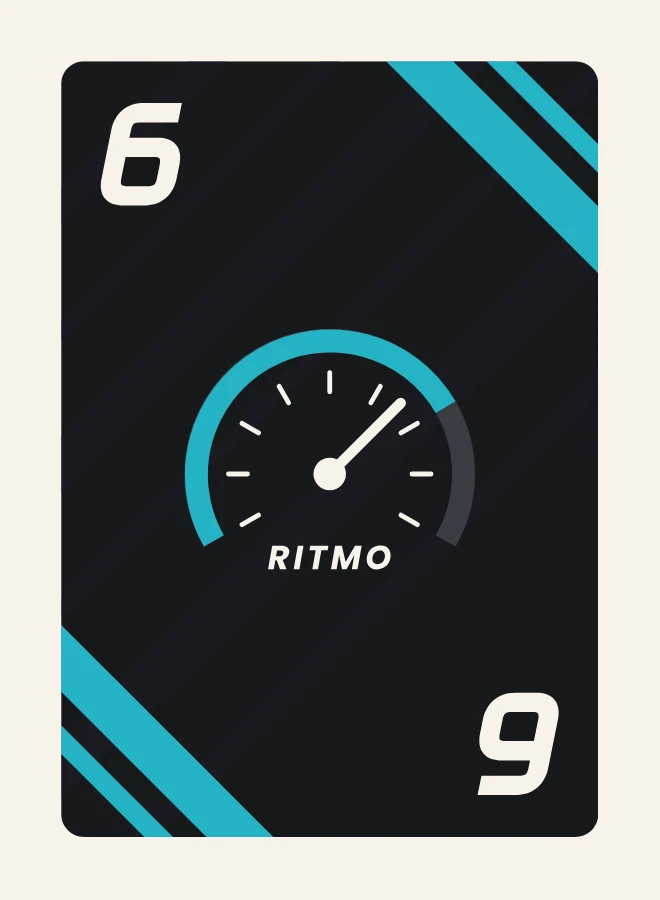
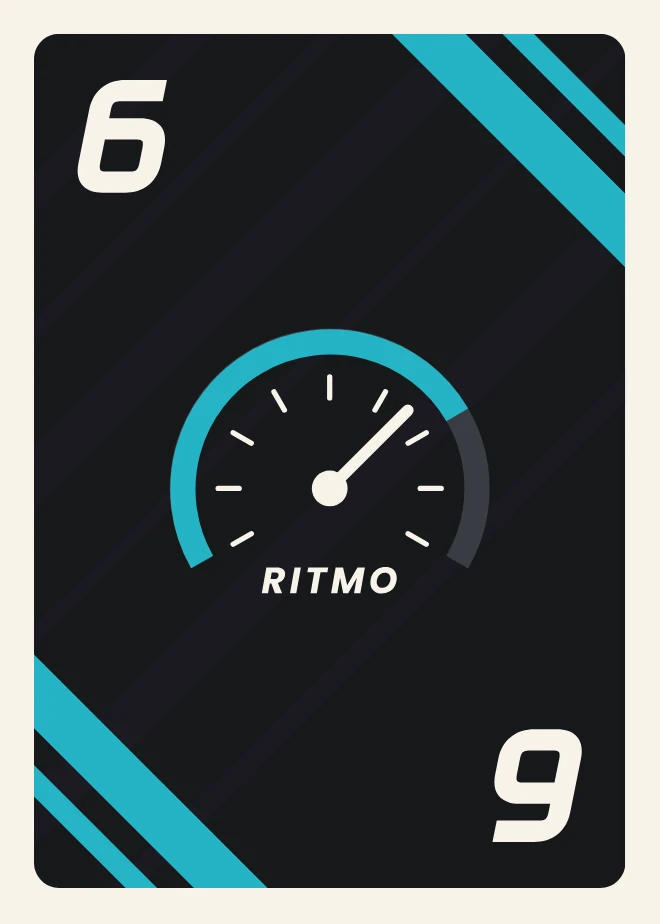
PINTO: halve the cream border on card images
Claude-Session: https://claude.ai/code/session_01NnqHpPTsf52NrHQii241Ji

diff --git a/juegos/pinto/index.html b/juegos/pinto/index.html
@@ -22,7 +22,7 @@
   <link rel="stylesheet" href="https://fonts.googleapis.com/css2?family=Istok+Web:wght@400;700&amp;family=Poppins:ital,wght@0,500;0,600;1,700;1,800&amp;display=swap">
 
   <link rel="stylesheet" href="../../css/styles.css?v=2">
-  <link rel="stylesheet" href="../../css/pinto.css?v=10">
+  <link rel="stylesheet" href="../../css/pinto.css?v=11">
   <script>document.documentElement.classList.replace('no-js', 'js');</script>
 </head>
 <body class="pinto">
@@ -134,14 +134,14 @@
         <p class="p-eyebrow">32 cartas · del 1 al 8</p>
         <h2 class="p-h2" id="ritmo-title">Cartas de ritmo</h2>
         <ul class="p-fan" aria-label="Cartas de ritmo del 1 al 8">
-          <li><img src="img/cartas/ritmo-1.webp?v=2" width="660" height="900" alt="Carta de ritmo 1" loading="lazy"></li>
-          <li><img src="img/cartas/ritmo-2.webp?v=2" width="660" height="900" alt="Carta de ritmo 2" loading="lazy"></li>
-          <li><img src="img/cartas/ritmo-3.webp?v=2" width="660" height="900" alt="Carta de ritmo 3" loading="lazy"></li>
-          <li><img src="img/cartas/ritmo-4.webp?v=2" width="660" height="900" alt="Carta de ritmo 4" loading="lazy"></li>
-          <li><img src="img/cartas/ritmo-5.webp?v=2" width="660" height="900" alt="Carta de ritmo 5" loading="lazy"></li>
-          <li><img src="img/cartas/ritmo-6.webp?v=2" width="660" height="900" alt="Carta de ritmo 6" loading="lazy"></li>
-          <li><img src="img/cartas/ritmo-7.webp?v=2" width="660" height="900" alt="Carta de ritmo 7" loading="lazy"></li>
-          <li><img src="img/cartas/ritmo-8.webp?v=2" width="660" height="900" alt="Carta de ritmo 8" loading="lazy"></li>
+          <li><img src="img/cartas/ritmo-1.webp?v=3" width="660" height="924" alt="Carta de ritmo 1" loading="lazy"></li>
+          <li><img src="img/cartas/ritmo-2.webp?v=3" width="660" height="924" alt="Carta de ritmo 2" loading="lazy"></li>
+          <li><img src="img/cartas/ritmo-3.webp?v=3" width="660" height="924" alt="Carta de ritmo 3" loading="lazy"></li>
+          <li><img src="img/cartas/ritmo-4.webp?v=3" width="660" height="924" alt="Carta de ritmo 4" loading="lazy"></li>
+          <li><img src="img/cartas/ritmo-5.webp?v=3" width="660" height="924" alt="Carta de ritmo 5" loading="lazy"></li>
+          <li><img src="img/cartas/ritmo-6.webp?v=3" width="660" height="924" alt="Carta de ritmo 6" loading="lazy"></li>
+          <li><img src="img/cartas/ritmo-7.webp?v=3" width="660" height="924" alt="Carta de ritmo 7" loading="lazy"></li>
+          <li><img src="img/cartas/ritmo-8.webp?v=3" width="660" height="924" alt="Carta de ritmo 8" loading="lazy"></li>
         </ul>
       </section>
 
@@ -151,27 +151,27 @@
         <h2 class="p-h2" id="especiales-title">Cartas especiales</h2>
         <ul class="p-specials p-specials--compact">
           <li class="p-card" style="--c: #e5463b">
-            <img src="img/cartas/bandera-roja.webp?v=2" width="660" height="900" alt="" loading="lazy">
+            <img src="img/cartas/bandera-roja.webp?v=3" width="660" height="924" alt="" loading="lazy">
             <h3>Bandera Roja</h3>
           </li>
           <li class="p-card" style="--c: #f2bd23">
-            <img src="img/cartas/bandera-amarilla.webp?v=2" width="660" height="900" alt="" loading="lazy">
+            <img src="img/cartas/bandera-amarilla.webp?v=3" width="660" height="924" alt="" loading="lazy">
             <h3>Bandera Amarilla</h3>
           </li>
           <li class="p-card" style="--c: #22b3c4">
-            <img src="img/cartas/rebufo.webp?v=2" width="660" height="900" alt="" loading="lazy">
+            <img src="img/cartas/rebufo.webp?v=3" width="660" height="924" alt="" loading="lazy">
             <h3>Rebufo</h3>
           </li>
           <li class="p-card" style="--c: #e8e2d6">
-            <img src="img/cartas/bandera-a-cuadros.webp?v=2" width="660" height="900" alt="" loading="lazy">
+            <img src="img/cartas/bandera-a-cuadros.webp?v=3" width="660" height="924" alt="" loading="lazy">
             <h3>Bandera a Cuadros</h3>
           </li>
           <li class="p-card" style="--c: #9b4fd8">
-            <img src="img/cartas/vuelta-rapida.webp?v=2" width="660" height="900" alt="" loading="lazy">
+            <img src="img/cartas/vuelta-rapida.webp?v=3" width="660" height="924" alt="" loading="lazy">
             <h3>Vuelta Rápida</h3>
           </li>
           <li class="p-card" style="--c: #2f86de">
-            <img src="img/cartas/bandera-azul.webp?v=2" width="660" height="900" alt="" loading="lazy">
+            <img src="img/cartas/bandera-azul.webp?v=3" width="660" height="924" alt="" loading="lazy">
             <h3>Bandera Azul</h3>
           </li>
         </ul>
@@ -203,7 +203,7 @@
 
       <!-- Cierre -->
       <section class="p-cta" aria-labelledby="cta-title">
-        <img class="p-cta__card" src="img/cartas/reverso.webp?v=2" width="660" height="900" alt="" loading="lazy">
+        <img class="p-cta__card" src="img/cartas/reverso.webp?v=3" width="660" height="924" alt="" loading="lazy">
         <div class="p-cta__copy">
           <h2 class="p-h2" id="cta-title">Muy pronto en la parrilla de salida</h2>
           <p>PINTO está calentando motores. Síguenos para enterarte primero de dónde conseguirlo.</p>

diff --git a/juegos/pinto/instrucciones/index.html b/juegos/pinto/instrucciones/index.html
@@ -24,7 +24,7 @@
   <link rel="stylesheet" href="https://fonts.googleapis.com/css2?family=Istok+Web:wght@400;700&amp;family=Poppins:ital,wght@0,500;0,600;1,700;1,800&amp;display=swap">
 
   <link rel="stylesheet" href="../../../css/styles.css?v=2">
-  <link rel="stylesheet" href="../../../css/pinto.css?v=10">
+  <link rel="stylesheet" href="../../../css/pinto.css?v=11">
 </head>
 <body class="pinto">
 
@@ -145,27 +145,27 @@
         <h2 class="p-h2" id="especiales-title">Cartas especiales</h2>
         <ul class="p-specials">
           <li class="p-card" style="--c: #e5463b">
-            <img src="../img/cartas/bandera-roja.webp?v=2" width="660" height="900" alt="" loading="lazy">
+            <img src="../img/cartas/bandera-roja.webp?v=3" width="660" height="924" alt="" loading="lazy">
             <div><h3>Bandera Roja</h3><p>Cierra la pista sin descartar la pila. El siguiente jugador tiene vía libre. Esta carta puede jugarse siempre.</p></div>
           </li>
           <li class="p-card" style="--c: #f2bd23">
-            <img src="../img/cartas/bandera-amarilla.webp?v=2" width="660" height="900" alt="" loading="lazy">
+            <img src="../img/cartas/bandera-amarilla.webp?v=3" width="660" height="924" alt="" loading="lazy">
             <div><h3>Bandera Amarilla</h3><p>Obliga al siguiente jugador a jugar ritmos bajos. Esta carta <strong>NO</strong> puede jugarse sobre ritmos altos, Vuelta Rápida o Rebufo.</p></div>
           </li>
           <li class="p-card" style="--c: #22b3c4">
-            <img src="../img/cartas/rebufo.webp?v=2" width="660" height="900" alt="" loading="lazy">
+            <img src="../img/cartas/rebufo.webp?v=3" width="660" height="924" alt="" loading="lazy">
             <div><h3>Rebufo</h3><p>Permite colocar hasta dos valores consecutivos de ritmos altos. Puedes jugarla sobre ritmos bajos u otro Rebufo.</p></div>
           </li>
           <li class="p-card" style="--c: #e8e2d6">
-            <img src="../img/cartas/bandera-a-cuadros.webp?v=2" width="660" height="900" alt="" loading="lazy">
+            <img src="../img/cartas/bandera-a-cuadros.webp?v=3" width="660" height="924" alt="" loading="lazy">
             <div><h3>Bandera a Cuadros</h3><p>Termina la etapa y descarta la pila. El siguiente jugador tiene vía libre. Esta carta puede jugarse siempre.</p></div>
           </li>
           <li class="p-card" style="--c: #9b4fd8">
-            <img src="../img/cartas/vuelta-rapida.webp?v=2" width="660" height="900" alt="" loading="lazy">
+            <img src="../img/cartas/vuelta-rapida.webp?v=3" width="660" height="924" alt="" loading="lazy">
             <div><h3>Vuelta Rápida</h3><p>Carta de ritmo más alto del juego. Esta carta <strong>NO</strong> puede jugarse justo después de una Bandera Amarilla.</p></div>
           </li>
           <li class="p-card" style="--c: #2f86de">
-            <img src="../img/cartas/bandera-azul.webp?v=2" width="660" height="900" alt="" loading="lazy">
+            <img src="../img/cartas/bandera-azul.webp?v=3" width="660" height="924" alt="" loading="lazy">
             <div><h3>Bandera Azul</h3><p>Salta el turno del siguiente jugador. Esta carta <strong>NO</strong> puede jugarse sobre una Bandera Amarilla, Rebufo o Vuelta Rápida.</p></div>
           </li>
         </ul>
@@ -220,7 +220,7 @@
 
       <!-- Closing -->
       <section class="p-cta" aria-labelledby="cierre-title">
-        <img class="p-cta__card" src="../img/cartas/reverso.webp?v=2" width="660" height="900" alt="" loading="lazy">
+        <img class="p-cta__card" src="../img/cartas/reverso.webp?v=3" width="660" height="924" alt="" loading="lazy">
         <div class="p-cta__copy">
           <h2 class="p-h2" id="cierre-title">¿Una jugada en duda?</h2>
           <p>El reglamento oficial tiene todos los casos especiales, las preguntas frecuentes y la puntuación completa del campeonato.</p>

diff --git a/index.html b/index.html
@@ -29,7 +29,7 @@
   <link rel="stylesheet" href="https://fonts.googleapis.com/css2?family=Istok+Web:wght@400;700&amp;display=swap">
 
   <link rel="stylesheet" href="css/styles.css?v=2">
-  <link rel="stylesheet" href="css/home.css?v=8">
+  <link rel="stylesheet" href="css/home.css?v=9">
 
   <!-- Sender: script universal de la cuenta (carga el formulario de suscripción). -->
   <script>
@@ -148,8 +148,8 @@
 
         <a class="h-game" href="juegos/pinto/" aria-labelledby="pinto-name">
           <div class="h-game__art">
-            <img class="h-game__card h-game__card--a" src="juegos/pinto/img/cartas/ritmo-8.webp?v=2" width="660" height="900" alt="" loading="lazy">
-            <img class="h-game__card h-game__card--b" src="juegos/pinto/img/cartas/bandera-a-cuadros.webp?v=2" width="660" height="900" alt="" loading="lazy">
+            <img class="h-game__card h-game__card--a" src="juegos/pinto/img/cartas/ritmo-8.webp?v=3" width="660" height="924" alt="" loading="lazy">
+            <img class="h-game__card h-game__card--b" src="juegos/pinto/img/cartas/bandera-a-cuadros.webp?v=3" width="660" height="924" alt="" loading="lazy">
             <img class="h-game__box" src="assets/pinto-caja.webp" width="560" height="798" alt="Caja del juego PINTO" loading="lazy">
           </div>
           <div class="h-game__copy">
@@ -227,7 +227,7 @@
             <h2 class="h-h2" id="join-title">Entérate <span class="accent">primero.</span></h2>
             <p class="h-join__lead">Suscríbete y recibe novedades, adelantos y contenido exclusivo de Kori Labs directo en tu correo.</p>
             <div class="h-join__gift">
-              <img src="juegos/pinto/img/cartas/reverso.webp?v=2" width="660" height="900" alt="" loading="lazy">
+              <img src="juegos/pinto/img/cartas/reverso.webp?v=3" width="660" height="924" alt="" loading="lazy">
               <p><strong>De regalo:</strong> una plantilla exclusiva para jugar PINTO en modo Temporada, lista para imprimir cuando PINTO llegue a tu mesa.</p>
             </div>
           </div>

diff --git a/css/home.css b/css/home.css
@@ -234,7 +234,7 @@
   height: auto;
   top: 8%;
   /* New card art (825×1125) has a cream border with square corners; round the outer edge */
-  border-radius: 9%/6.6%;
+  border-radius: 7.5%/5.35%;
   box-shadow: 0 0.8rem 1.6rem rgb(0 0 0 / 0.5);
   transition: transform 0.4s ease;
 }
@@ -615,7 +615,7 @@ html { scroll-behavior: smooth; }
   flex: none;
   width: 2.6rem;
   height: auto;
-  border-radius: 9%/6.6%;
+  border-radius: 7.5%/5.35%;
   transform: rotate(-8deg);
   box-shadow: 0 0.4rem 0.8rem rgb(0 0 0 / 0.35);
 }

diff --git a/privacidad/index.html b/privacidad/index.html
@@ -17,7 +17,7 @@
   <link rel="stylesheet" href="https://fonts.googleapis.com/css2?family=Istok+Web:wght@400;700&amp;display=swap">
 
   <link rel="stylesheet" href="../css/styles.css?v=2">
-  <link rel="stylesheet" href="../css/home.css?v=8">
+  <link rel="stylesheet" href="../css/home.css?v=9">
   <link rel="stylesheet" href="../css/legal.css?v=1">
 </head>
 <body class="home">

diff --git a/css/pinto.css b/css/pinto.css
@@ -433,7 +433,7 @@
   width: 100%;
   height: auto;
   /* New card art (825×1125) has a cream border with square corners; round the outer edge */
-  border-radius: 9%/6.6%;
+  border-radius: 7.5%/5.35%;
   box-shadow: 0 0.9rem 1.8rem rgb(0 0 0 / 0.45);
 }
 

diff --git a/CLAUDE.md b/CLAUDE.md
@@ -70,7 +70,7 @@ comments just to translate them — only translate what you are already touching
 │       ├── box3d.js         Auto-rotating, draggable CSS-3D box with per-face shading (no deps, respects reduced motion)
 │       ├── instrucciones/index.html  Rules summary + "Ver reglamento" button (opens the PDF in a new tab, no `download` attr so phones open it). TARGET OF THE PRINTED QR — never move
 │       ├── reglamento.pdf   Official rules PDF (v1.3, source of truth). Linked from instrucciones/ only
-│       └── img/             caja-*.webp (6 box faces), cartas/*.webp (card art, 660×900, cream border baked in;
+│       └── img/             caja-*.webp (6 box faces), cartas/*.webp (card art, 660×924, thin cream border baked in;
 │                            special cards have their description paragraph removed),
 │                            logo-pinto.webp, og-pinto.jpg (share preview)
 ├── pinto/reglas/index.html  Meta-refresh → /juegos/pinto/instrucciones/ (short alias; keep working)
@@ -137,8 +137,8 @@ the size/page count shown next to the download button.
 
 - **Cache busting:** CSS/JS/image links carry `?v=N`. When you change a file, bump its `N` **in every
   page that links it** (e.g. `home.css` is linked from `index.html` *and* `privacidad/index.html`).
-  Current: `styles.css?v=2`, `home.css?v=8` (index and privacidad),
-  `pinto.css?v=10`, card images `?v=2`, `legal.css?v=1`, `box3d.js?v=2`, `favicon.svg?v=2`, box faces `?v=2`.
+  Current: `styles.css?v=2`, `home.css?v=9` (index and privacidad),
+  `pinto.css?v=11`, card images `?v=3`, `legal.css?v=1`, `box3d.js?v=2`, `favicon.svg?v=2`, box faces `?v=2`.
 - **Relative paths everywhere** (`../../css/…`). Pages live in folders as `index.html` so URLs are clean
   (`/juegos/pinto/`). New pages: create `folder/index.html`, copy the head/header/footer of a sibling page.
 - **Sender (newsletter):** universal script in the `<head>` of `index.html`; form is
